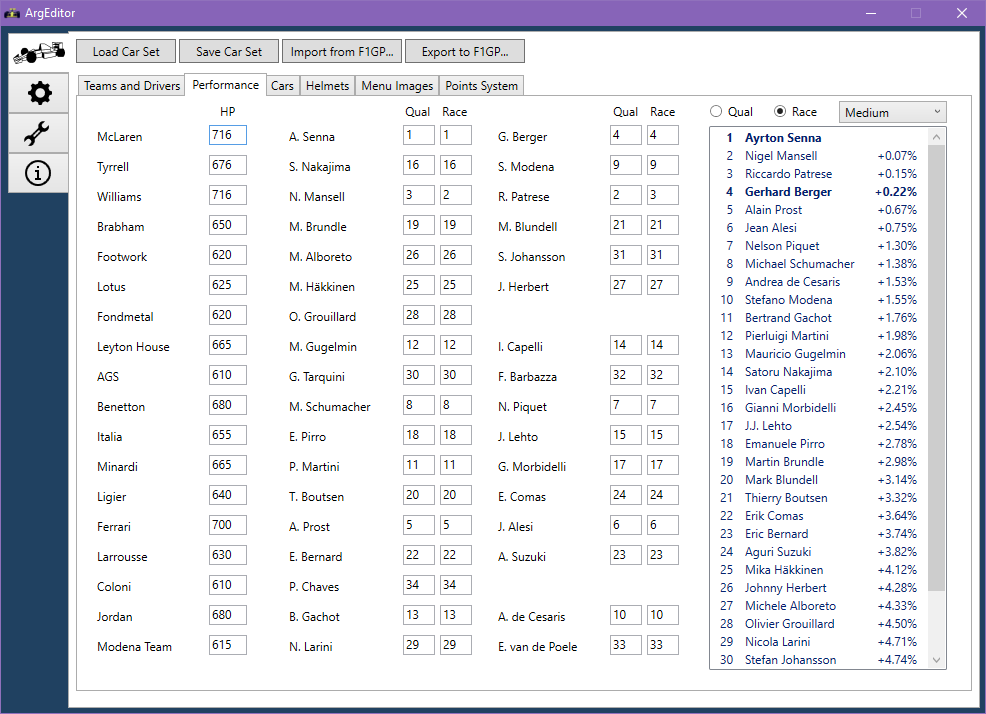
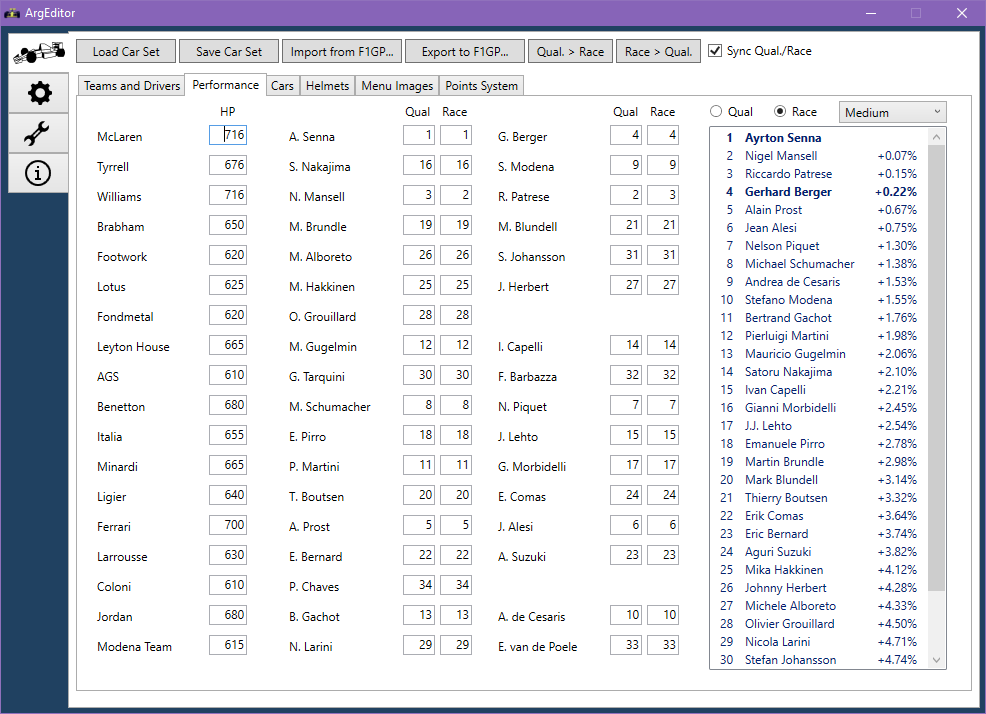
Update documentation and download page for 1.3

diff --git a/Docs/site/content/download.md b/Docs/site/content/download.md
@@ -4,10 +4,10 @@ title: "ArgEditor: Download"
 
 # Download
 
-The latest version is **1.2**, released on 2020-05-15.
+The latest version is **1.3**, released on 2020-06-04.
 
 <p>
-    <a class="btn btn-primary" href="/downloads/argeditor/ArgEditor-1.2.zip">Download</a>
+    <a class="btn btn-primary" href="/downloads/argeditor/ArgEditor-1.3.zip">Download</a>
 </p>
 
 <br />
@@ -32,6 +32,23 @@ be found here:
 ## Release notes
 
 Below are the release notes for each released version of ArgEditor.
+
+
+### 1.3
+
+Released 2020-06-04 - [Download](/downloads/argeditor/ArgEditor-1.3.zip)
+
+- Select car colors by browsing existing car sets or EXE files
+- Select helmet colors by browsing existing car sets or EXE files
+- Checkbox for syncing qual. and race performance levels, editing one updates the other
+- Buttons for copying qualifying performance levels to race levels, and vice versa
+- New window for reordering teams
+- New window for swapping drivers between teams
+- Link to tyre wear database on setup screen
+- Right-align numeric values for easier reading
+- Can save car colors as a .CAR file
+- Can save helmet colors as a .HEL file
+- Loading a car or helmet file creates undoable action
 
 
 ### 1.2

diff --git a/Docs/site/content/carset-screen.md b/Docs/site/content/carset-screen.md
@@ -50,6 +50,24 @@ teams. This is because the first team in 1991 was McLaren,
 which had the well-known Marlboro paint scheme
 with a red diagonal stripe across the nose cone.
 
+By clicking "Reorder Teams", a new dialog appears.
+
+<img alt="Reorder teams screenshot" src="/argeditor/images/reorder-teams.png" class="img-fluid" />
+
+This window allows you to reorder the teams using the arrow buttons on the right.
+
+When moving a team, it will move all the team data to the new location, including the
+drivers and all their data as well.
+
+By clicking "Swap Drivers" you can swap two drivers between teams.
+
+<img alt="Swap drivers screenshot" src="/argeditor/images/swap-drivers.png" class="img-fluid" />
+
+Select the two drivers that you wish to swap in the dropdown lists and click OK.
+
+This will swap the drivers around completely (including helmets and menu images) but the
+number will remain the same.
+
 
 ## Performance tab
 
